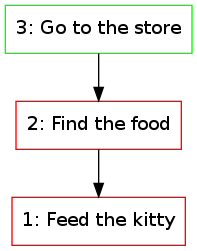
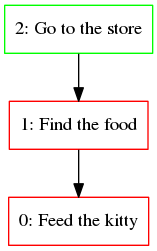
Start indexing from 0

diff --git a/README.md b/README.md
@@ -28,11 +28,11 @@ Here "Feed the kitty" is your Mikado Goal, and "example" is the name of diagram 
 You can launch your preffered image viewer to find that image "example.png" has appeared in the directory you've been launched REPL. Please enable auto-refresh and go on with diagram hacking:
 
     (add! "Find the food")
-    (add! "Go to the store" 2)
+    (add! "Go to the store" 1)
 
-Here, 2 is the id of the second goal, and it can be easily recognized from the picture. When you don't append id as the parameter, the new goal is being attached to Mikado goal. Also you can see that picture is being updated after every your action.
+Here, 1 is the id of the second goal, and it can be easily recognized from the picture. When you don't append id as the parameter, the new goal is being attached to Mikado goal. Also you can see that picture is being updated after every your action.
 
-    (close! 3)
+    (close! 2)
 
 When you finish the current goal, close it with `close!` function. Its color immediately changes.
 
